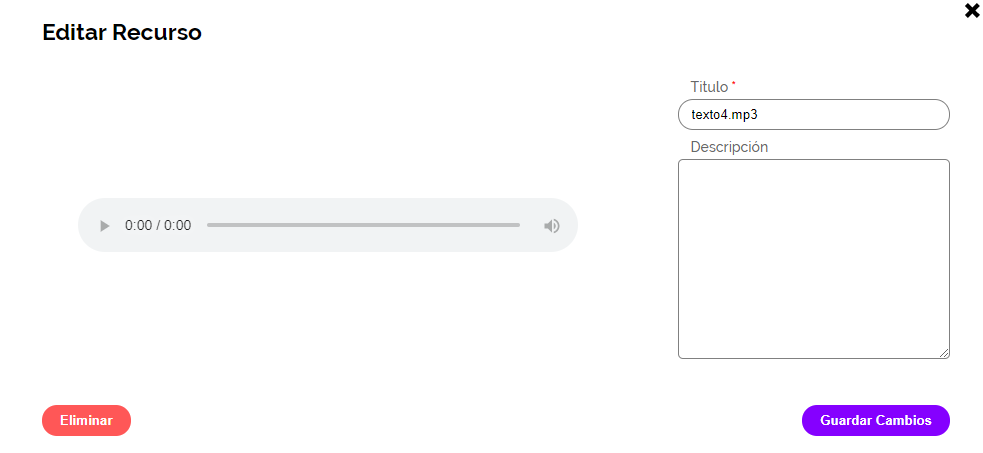
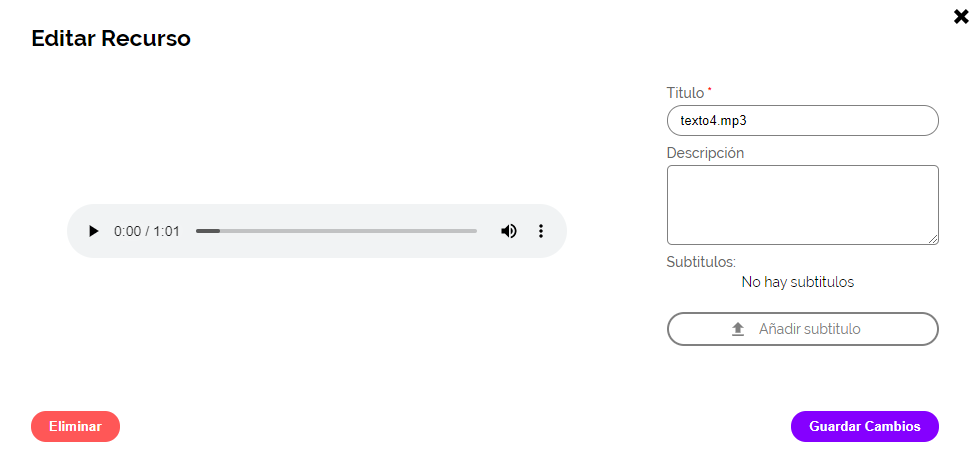
Añadiendo contenido a la documentación #88

diff --git a/docs/index.md b/docs/index.md
@@ -36,14 +36,16 @@ En definitiva lo único que necesitamos para poder montar nuestro Tour Virtual a
 
 # **Guía de instalación:**
 
+Para poder acceder al panel de administración ponga después de la dirección en la que esta desplegada su aplicación /login y acceda con el usuario que se le facilito. 
 
+![Login](img/login.png)
 
 # **Primeros pasos:** 
 
 Una vez instalada nuestra aplicación podremos usarla desde dos perspectivas diferentes: 
 
 1. **Visita virtual:**  Esta es la parte que usara los visitantes de nuestra aplicación, proporciona acceso a los tres modos de las visitas que hemos creado, la visita libre, la visita guiada y los puntos destacados. 
-2. **Panes del administración:** Esta parte de la aplicación solo puede ser vista por los usuarios administradores y nos permitirá configurar y crear nuestro tour virtual a partir de las distintas opciones de su menú. 
+2. **Panel del administración:** Esta parte de la aplicación solo puede ser vista por los usuarios administradores y nos permitirá configurar y crear nuestro tour virtual a partir de las distintas opciones de su menú. 
 
 Como hemos mencionado anteriormente nuestra aplicación final contará con tres modos diferentes de acceso: 
 
@@ -60,7 +62,7 @@ También será posible agregar la opción de que en esa misma esquina aparezca e
 ## **Panel de administración:** 
 ![Panel de Administración](img/administracion.png)
 
-Como podemos observar el panel de administración se compone de 9 componentes que nos permitirán configurar y crear nuestro tour virtual. Estos apartados serán explicados más detalladamente más adelante pero antes de empezar a configurarlo le aconsejamos que previamente realice las siguientes funciones: 
+Como podemos observar el panel de administración se compone de 9 módulos que nos permitirán configurar y crear nuestro tour virtual. Estos apartados serán explicados más detalladamente más adelante pero antes de empezar a configurarlo le aconsejamos que previamente realice las siguientes funciones: 
 
 1. Haga planos digitalizados y detallados del lugar que pretende virtualizar
 2. Sobre un plano indicar en que puntos de las estancia va a realizar las imágenes 360.
@@ -73,13 +75,14 @@ Una vez que tenga todo eso, es hora de empezar a preparar nuestro Tour Virtual.
 
 Ahora vamos a ver los pasos necesarios para crear nuestro tour virtual paso a paso y explicando cada uno de los módulos del panel de administración.
 
+
 ## **Configurar nuestro Tour:**
 
 Lo primero que debemos de hacer es configurar nuestra aplicación, para ello nos vamos a ir al apartado de *opciones* del menú lateral. Al abrir se nos mostrará una pantalla con los siguientes módulos: 
 
 ![Vista de opciiones](img/opciones.png)
 
-1. **Mete titulo:** Permite poner palabras que se incrustarán en nuestro código para poder mostrar las descripciones en las búsquedas realizadas en Google. 
+1. **Meta titulo:** Permite poner palabras que se incrustarán en nuestro código para poder mostrar las descripciones en las búsquedas realizadas en Google. 
 2. **Meta descripción:** Permite poner palabras que se incrustarán en nuestro código para poder mostrar las descripciones en las búsquedas realizadas en Google. 
 3. **Imagen de icono:** Permite selecciones la imagen de icono que se nos mostrará en la pestaña del navegador. 
 4. **Titulo de la web:** Permite configurar el titulo de nuestra web. 
@@ -99,15 +102,11 @@ Lo primero que debemos de hacer es configurar nuestra aplicación, para ello nos
 14. **Texto puntos destacados:** Em este apartado puede poner el texto que quiere que se vea cuando le gente pase el ratón por encima del botón de *Puntos destacados*.
 15. **Texto panel Historia:** Solo aparecerá en caso de que el botón Historia este activado. Em este apartado puede poner el texto que quiere que se vea cuando le gente pulse el botón de *Historia*.  
 
+# 
 ## **Subir los mapas:** 
 
-Lo primero que debemos hacer es subir los mapas de las zonas que vamos a virtualizar, para ello en el panel de administración nos vamos a ir a la sección de zonas 
-
-Para poder acceder al panel de administración ponga después de la dirección en la que esta desplegada su aplicación /login y acceda con el usuario que se le facilito. 
-
-![Login](img/login.png)
-
-Una vez dentro por defecto la primera página que encontrará será la de zonas, en ella podremos observar en la esquina derecha superior un icono para introducir una nueva zona
+Lo primero que debemos hacer es subir los mapas de las zonas que vamos a virtualizar, para ello en el panel de administración nos vamos a ir a la sección de zonas  
+En la esquina derecha superior podrá observar un icono para introducir una nueva zona
 
 ![Pandel de administracion, zonas](img/zonas.png)
 
@@ -115,7 +114,7 @@ Pinche sobre el icono para crear su primera zona, en primer lugar, elija el nomb
 
 ![Formulario añadir zona](img/newZone..png)
 
-Una vez añadida podrás ver esa nueva zona que hemos añadidos y encontraros los botones para editarla, borrar la zona o moverla de posición
+Una vez añadida podrás ver esa nueva zona que hemos añadido y encontraras los botones para editarla, borrar la zona o moverla de posición
 
 ![Zonas](img/finalZone.png)
 
@@ -125,17 +124,18 @@ Una vez añadida podrás ver esa nueva zona que hemos añadidos y encontraros lo
 
 * **Flechas de posición:** Estas flechas nos permite configurar la posición en la que se encuentra nuestra zona, estas posiciones nos sirven después para los transladores. 
 
+# 
 ## **Crear escenas:** 
 
 Como hemos dicho anteriormente, para poder crear una escena deberemos entrar en el editar de las zonas. 
 Una vez dentro de esta pestaña veremos el mapa de la zona que hemos seleccionado. 
-Para poder añadir un nueva escena haremos clic derecho sobre el punto del mapa al que deseemos añadirle la escena, al clicar veremos que se nos abre un formulario en la parte derecha de la pantalla para añadir la información necesaria de la escena: 
+Para poder añadir un nueva escena haremos clic sobre el punto del mapa al que deseemos añadirle la escena, al clicar veremos que se nos abre un formulario en la parte derecha de la pantalla para añadir la información necesaria de la escena: 
 
 ![Añadir escenas](img/addScene.png)
 
 Introduciremos el nombre de la escena junto con su imagen 360. 
 
-Como podemos observar, en el formulario se encuentra un campo que se puede seleccionar llamado *Escena principal*, seleccionaremos este campo en caso de que la escena que estemos introduciendo sea la que queremos que se vea la primera en nuestra visita libre, solo podrá existir una escena principal en todo el Tour. 
+Como podemos observar, en el formulario se encuentra un campo que se puede seleccionar llamado *Escena principal*, seleccionaremos este campo en caso de que la escena que estemos introduciendo sea la que queremos que se vea la primera en nuestra visita libre, solo podrá existir una escena principal en todo el Tour. Si no selecciona ninguna escena, por defecto se quedará como escena principal la primera escena que introdujera en el tour virtual.
 
 Repetiremos este proceso tantas veces como escenas necesitemos subir a nuestro recorrido virtual. 
 
@@ -162,9 +162,10 @@ Para **cambiar el punto** pinchamos sobre el botón de mover punto y pinchamos s
 
 ![Cambiar punto](img/cambiarPunto.png)
 
+# 
 ## **Crear escenas secundarias:** 
 
-Lo primero que debemos sabes es ¿Que es una escena secundaria?  
+Lo primero que debemos saber es ¿Que es una escena secundaria?  
 Una escena secundaria es una imagen 360 adicional a la imagen principal de una escena, con el objetivo de así poder tener diferentes vistas según el momento de la misma escena. 
 
 Por ejemplo, en un museo, con esta opción podríamos tener escenas secundarias con todas las exposiciones que se han ido realizando y de esta manera no perder las exposiciones nunca. 
@@ -190,6 +191,7 @@ En el caso de las escenas secundarías para modificarlas necesitaremos darle al 
 
 *Debes tener en cuenta que no se podrán borrar escenas que tengan asociadas escenas secundarias, para poder borrarlas primero deveras de borrar las escenas secundarias asociadas.*
 
+# 
 ## **Recursos:**
 
 Lo primero que tenemos que saber lo de los recursos es que existen recursos de 4 tipos:  
@@ -207,7 +209,7 @@ Cuando abrimos la pestaña nos encontramos con la siguiente vista, en la que pod
 2. **Buscador:** El buscador nos permite buscar en todos los recursos por su nombre o descripción
 3. **Subir video:** Los videos que se usan para nuestra aplicación son videos sacados de Vimeo, para poder subir un video pulsaremos ese botón para que se nos abra el formulario de subida. Para poder subir un video solo tendemos que asignarle un nombre y poner la URL del video deseado.  
 4. **Subir recursos:** Nos permite subir el resto de recursos, en este apartado nos pararemos un poco más.  
-Cuando pinchemos sobre este icono se nos desplegará lo siguiente, para poder subir archivos sólo tendremos que arrastrarlos encima del recuadro, o pincha encima del cuadro para seleccionarlos. 
+Cuando pinchemos sobre este icono se nos desplegará lo siguiente, para poder subir archivos sólo tendremos que arrastrarlos encima del recuadro, o pinchar encima del cuadro para seleccionarlos. 
 
 ![Drag and drop](img/draganddrop.png)
 
@@ -216,6 +218,11 @@ Al pinchar sobre el recurso se nos abrirá una ventana que nos mostrará el recu
 
 ![Editar recurso](img/editarRecurso.png)
 
+Como ha podido observar en la imagen, en los autiods es posible añadirles subtitulos. Para poder añadirlos pincharemos sobre el botón Añadir subtitulos que se encuentra dentro de la ventana de *Editar*, esto nos permitirá escoger el archivo de los subtitulos.  
+Para crear archivos de subtitulos puede hacerlo en el siguiente [enlace]( https://www.happyscribe.co)  
+El archivo que vayas a subir tendrá que tener su nombre formado de la siguiente manera: **nombre.idioma.vtt** (Ejemplo: audio3.español.vtt)
+
+# 
 ## **Galerias de Imagenes:**
 
 Para abrir la Galerías pincharemos en el menú lateral la opción de *Galería*, como en la vista de los recursos encontraremos un icono en la parte superior derecha para añadir nueva Galería.  
@@ -229,7 +236,9 @@ Una vez creada nuestra galería la vista quedara con el siguiente aspecto y enco
 
 1. **Editar:** Nos permite editar los valores de la galería, es decir, su nombre y descripción 
 2. **Recuersos:** Nos permiten seleccionar las imágenes que deseamos que compongan esa galería. Después veremos esa vista y los botones de control que contienen. 
-3. **Eliminar:** Elimina la galería seleccionada. Para poder borrar una galería es necesario que dicha galería no contenga ningún recurso asociado, en caso contrario saltará un error y no nos dejará borrar la galería. 
+3. **Eliminar:** Elimina la galería seleccionada. En caso de que la galeria contenga archivos asociados nos saldrá una ventana alertandonos del peligro de borrarla.  En caso de querer borrarla igualmente, al pulsar sobre el aceptar se borrará tanto la galeria como todas las relaciones con las imágenes que tuviera asociadas.
+
+![Borrar galerias con imagenes asociadas](img/deleteG.png)
 
 Como hemos dicho anteriormente cuando pinchemos sobre el botón recursos se nos abrirá la siguiente página: 
 
@@ -239,6 +248,7 @@ Como hemos dicho anteriormente cuando pinchemos sobre el botón recursos se nos 
 2. **Guardar:** Guarda las imágenes seleccionadas y te devuelve a la vista principal de galerías. 
 3. **Seleccionar imagen:** Haz clic sobre el seleccionador de la imágenes que deseas que pertenezcan a la galería. 
 
+# 
 ## **Trasladores:**
 
 Como dijimos en el apartado de configuración existen transladores de dos tipos:  
@@ -253,13 +263,14 @@ En caso de que en las opciones tengas seleccionado el translador *Ascensor* se t
 
 Una vez creado se nos verá la vista de la siguiente manera: 
 
-![Vista trasladores ascensor](img/ascensor.png)
+![Vista de los trasladores tipo ascensor](img/mapas.png)
 
-Encontraremos dos botones:  
-1. **El botón eliminar:** Elimina el translador, un translador no puede ser eliminado si contiene escenas asociadas. 
-2. **Editar:** Dentro del botón editar encontraremos dos opciones:  
-    1. *Nombre y botón guardar:* Para poder cambiar el nombre del traslador
-    2. *Seleccionar escena:* Cuando pulsemos este botón se nos abrirá una página para poder seleccionar las escenas que se encontraran dentro de este ascensor. Cuando le demos al botón de añadir nueva escena se nos abrirá una ventana como la siguiente para seleccionar el punto de la escena deseado:
+Esta vista sigue siendo igual te encuentres en el tipo de transador que te encuenres
+
+Encontraremos tres botones:  
+1. **Editar:** Permite cambiar el nombre del traslador
+2. **Escena:** Cuando pulsemos este botón se nos abrirá una página para poder seleccionar las escenas que se encontraran dentro de este ascensor. Cuando le demos al botón de añadir nueva escena se nos abrirá una ventana como la siguiente para seleccionar el punto de la escena deseado
+3. **El botón eliminar:** Elimina el translador, un translador no puede ser eliminado si contiene escenas asociadas. 
 
 ![Añadir escenas en ascensores](img/addSceneAscensor.png)
 
@@ -272,13 +283,9 @@ Una vez que seleccionemos el punto y le demos a guardar el aspecto de la vista s
 3. **Previsualizar:** Al pinchar sobre el botón podremos previsualizar la escena que hemos escogido 
 4. **Eliminar** 
 
-En caso de que en las opciones tengas seleccionado el translador *Mapa* se te abrirá el siguiente formulario:
+En caso de que en las opciones tengas seleccionado el translador *Mapa* en vez del *Ascenesor* el pocreso será algo diferente, y lo que se te abrirá al pinchar en nuevo ascensor será el siguiente formulario:
 
 ![Añadir translador mapa](img/addMapa.png)
-
-En el caso de estos transladores la vista será la siguiente: 
-
-![Vista de los trasladores tipo ascensor](img/mapas.png)
 
 La administración de esta vista será similar a la del traslador anterior con la única diferencia de que en vez de seleccionar la zona a la que pertenece la escena de esa traslador se nos mostrará la siguiente vista: 
 
@@ -292,7 +299,7 @@ Para editar cualquier escena simplemente pincharemos sobre el punto de la escena
 
 ![Vista de editar traslador tipo mapa](img/editarplaya.png)
 
-
+# 
 ## **Añadir Hostpots:**
 
 Lo primero que vamos a recordar es que para administrar los hostpots debemos irnos a Zonas, seleccionar la zona deseada, y pinchar sobre la escena a la que queremos añadir hostpots.  
@@ -324,6 +331,7 @@ Cuando cree un nuevo hotspot de tipo salto vera que puede marcar la siguiente op
 
 Seleccione esta opción si no quiere que este hostpot de tipo salto aparezca en el recorrido de los puntos destacados. Como verá más adelante los puntos destacados son "mini tour virtuales" de estancias importantes del tour. Por ejemplo, un laboratorio o la biblioteca. Por eso puedes seleccionar que hotspots de salto quiere permitir usar al usuario cuando este dentro de ese punto destacado. En caso de no ser un punto destacado no deberá darle ningún tipo de importancia a este mensaje. 
 
+# 
 ## **Añadir Visitas guiadas:**
 
 Para crear una nueva visita guiada es necesario que previamente estén todas las escenas subidas junto con los recursos de audio necesarios. Una vez tengamos los componentes listos nos iremos a la venta de *Visitas guiadas* del menú lateral. Como en el resto de las vistas encontraremos en la parte superior derecha un botón de añadir nueva visita guiada, pinche sobre él y rellene los campos con los datos: 
@@ -352,6 +360,7 @@ La información que verás en esta vista será:
 
 En caso de haberte equivocado con el orden al créalas, no te preocupes, puedes pinchar sobre la escena que deseas mover de posición y arrastrarla hasta la posición deseada. Por último, pulse sobre el botón de guardar posiciones para guardar el orden que has creado. 
 
+# 
 ## **Añadir Puntos destacados:**
 
 Un punto destacado es un "mini tour virtual" de una estancia importante del tour. Este punto destacado nos dejará movernos para la estancia seleccionada para así poder acceder directamente a los sitios más importantes de nuestro Tour.  
